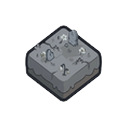
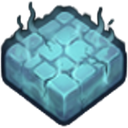
fix: rework cemetery & volcano tiles + volcano path
- Cemetery: new rembg'd tile_grass (teal stones) + tile_path (gravestones), swapped correctly
  tileScale: 0.78 to match prairie size
- Volcano: new rembg'd tile_grass (lava blocks) + tile_path (obsidian), tileScale: 0.85
- Volcano path: redesign fork with 90° turns only (no diagonal tile steps)
  Left fork: down x=3 then right along y=9
  Right fork: right along y=3 then down x=6
  Castle moved to bottom-right (6,11)

diff --git a/public/js/games/td/tdConfig.js b/public/js/games/td/tdConfig.js
@@ -65,6 +65,7 @@ export const LEVELS = [
         theme: {
             id: 'cemetery',
             castleScale: 1.4,
+            tileScale: 0.78,
             towerScale: 0.85,
             enemyScale: 0.85,
             enemyScales: { tank: 1.3, boss: 1.4 },
@@ -109,6 +110,7 @@ export const LEVELS = [
         theme: {
             id: 'volcano',
             castleScale: 1.4,
+            tileScale: 0.85,
             towerScale: 0.85,
             enemyScale: 0.85,
             enemyScales: { tank: 1.3, boss: 1.4 },
@@ -130,10 +132,10 @@ export const LEVELS = [
         path: [
             {x:3, y:0}, {x:3, y:1}, {x:3, y:2}, {x:3, y:3},
             { fork: [
-                [{x:2, y:4}, {x:1, y:5}, {x:0, y:6}, {x:0, y:7}, {x:1, y:8}, {x:2, y:9}],
-                [{x:4, y:4}, {x:5, y:5}, {x:6, y:6}, {x:6, y:7}, {x:5, y:8}, {x:4, y:9}]
+                [{x:3,y:4},{x:3,y:5},{x:3,y:6},{x:3,y:7},{x:3,y:8},{x:3,y:9},{x:4,y:9},{x:5,y:9},{x:6,y:9}],
+                [{x:4,y:3},{x:5,y:3},{x:6,y:3},{x:6,y:4},{x:6,y:5},{x:6,y:6},{x:6,y:7},{x:6,y:8},{x:6,y:9}]
             ]},
-            {x:3, y:10}, {x:3, y:11}
+            {x:6, y:10}, {x:6, y:11}
         ],
         waves: [
             [{ type: 'tank', count: 6 }, { type: 'basic', count: 8 }],
